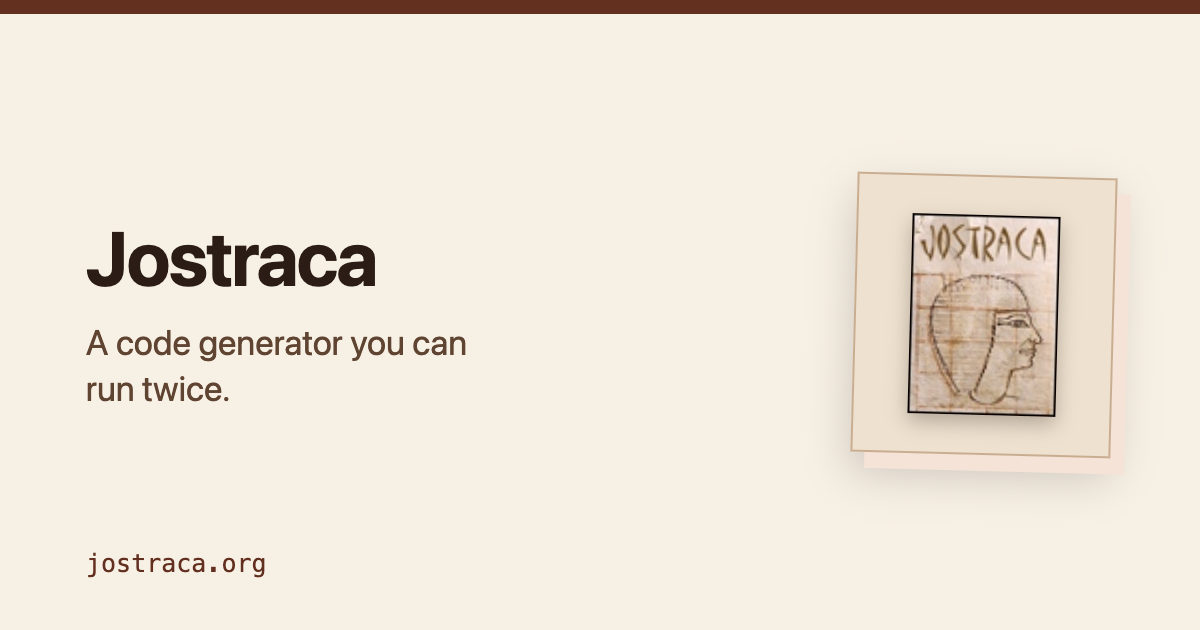
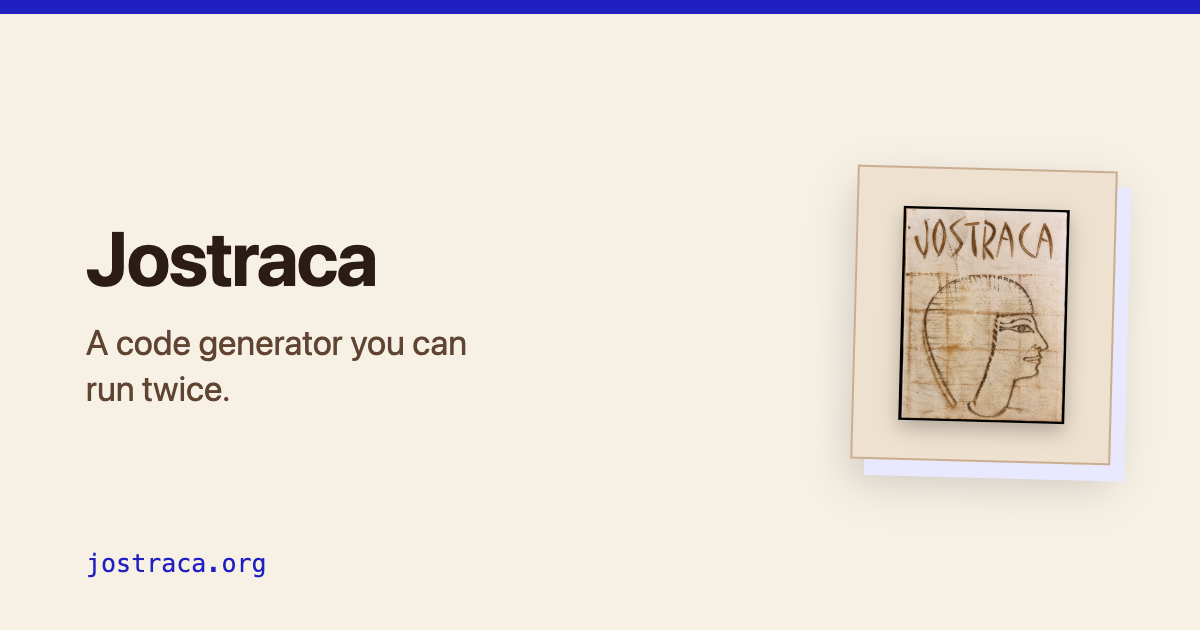
Restore ostracon and revive original blue

Changed region(s): [[0.7092, 0.2413, 0.9558, 0.7841], [0.0, 0.0, 1.0, 0.0302], [0.0617, 0.8746, 0.2158, 0.9048]]

diff --git a/src/styles/tokens.css b/src/styles/tokens.css
@@ -48,6 +48,15 @@
   --clay-200: #eac9b5;
   --clay-100: #f5e3d7;
 
+  /* The original site's link blue: bright cobalt with an ink-blue depth. */
+  --blue-900: #000066;
+  --blue-800: #11118f;
+  --blue-700: #2020c2;
+  --blue-600: #3333ff;
+  --blue-300: #aaaaff;
+  --blue-200: #ccccff;
+  --blue-100: #e8e8ff;
+
   /* 2 ── semantic tokens ─────────────────────────────────────────── */
 
   --bg: var(--earth-50);
@@ -62,12 +71,12 @@
   --rule: var(--earth-200);
   --rule-strong: var(--earth-300);
 
-  --primary: var(--clay-800);
-  --primary-hover: var(--clay-700);
-  --primary-soft: var(--clay-100);
+  --primary: var(--blue-700);
+  --primary-hover: var(--blue-900);
+  --primary-soft: var(--blue-100);
   --on-primary: var(--plaster);
 
-  --focus: var(--clay-600);
+  --focus: var(--blue-600);
   --wash: color-mix(in srgb, var(--earth-100) 68%, transparent);
   --shadow: color-mix(in srgb, var(--earth-950) 18%, transparent);
 
@@ -86,7 +95,7 @@
 
 /*
   Dark. Only the semantic layer is remapped — the scales above are the same
-  materials, put to different work. Clay lightens against the dark earth.
+  materials, put to different work. Blue lightens against the dark earth.
 */
 @media (prefers-color-scheme: dark) {
   :root:not([data-theme="light"]) {
@@ -102,12 +111,12 @@
     --rule: var(--earth-800);
     --rule-strong: var(--earth-700);
 
-    --primary: var(--clay-300);
-    --primary-hover: var(--clay-200);
-    --primary-soft: var(--clay-900);
+    --primary: var(--blue-200);
+    --primary-hover: var(--blue-300);
+    --primary-soft: var(--blue-900);
     --on-primary: var(--earth-950);
 
-    --focus: var(--clay-300);
+    --focus: var(--blue-200);
   }
 }
 
@@ -124,10 +133,10 @@
   --rule: var(--earth-800);
   --rule-strong: var(--earth-700);
 
-  --primary: var(--clay-300);
-  --primary-hover: var(--clay-200);
-  --primary-soft: var(--clay-900);
+  --primary: var(--blue-200);
+  --primary-hover: var(--blue-300);
+  --primary-soft: var(--blue-900);
   --on-primary: var(--earth-950);
 
-  --focus: var(--clay-300);
+  --focus: var(--blue-200);
 }

diff --git a/src/styles/global.css b/src/styles/global.css
@@ -34,9 +34,6 @@ body {
   /* The Worker composites this page over a ground it paints itself, so the
      background is explicit rather than inherited. */
   background: var(--bg);
-  background-image:
-    radial-gradient(circle at 12% 0%, var(--wash), transparent 34rem),
-    linear-gradient(90deg, transparent 0, var(--wash) 50%, transparent 100%);
   color: var(--ink);
   font-family: var(--font-body);
   font-size: 17px;
